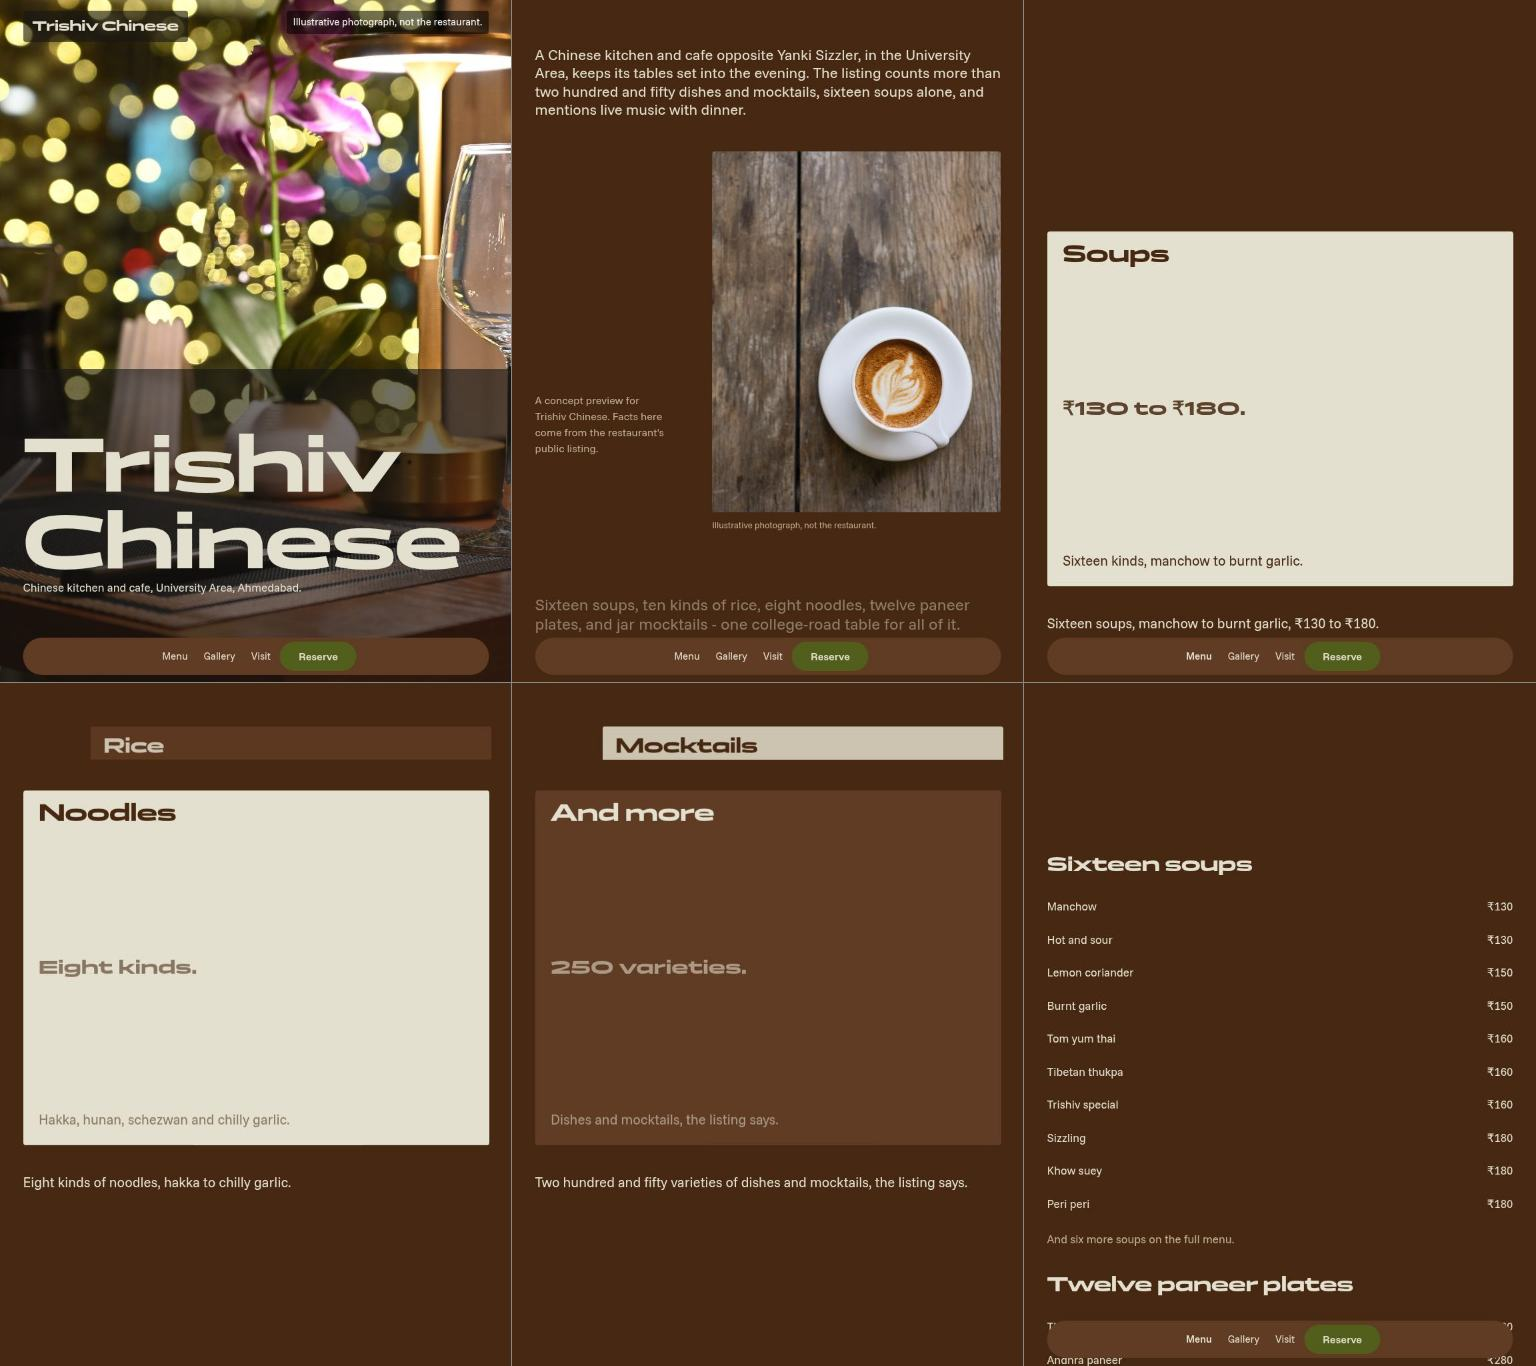
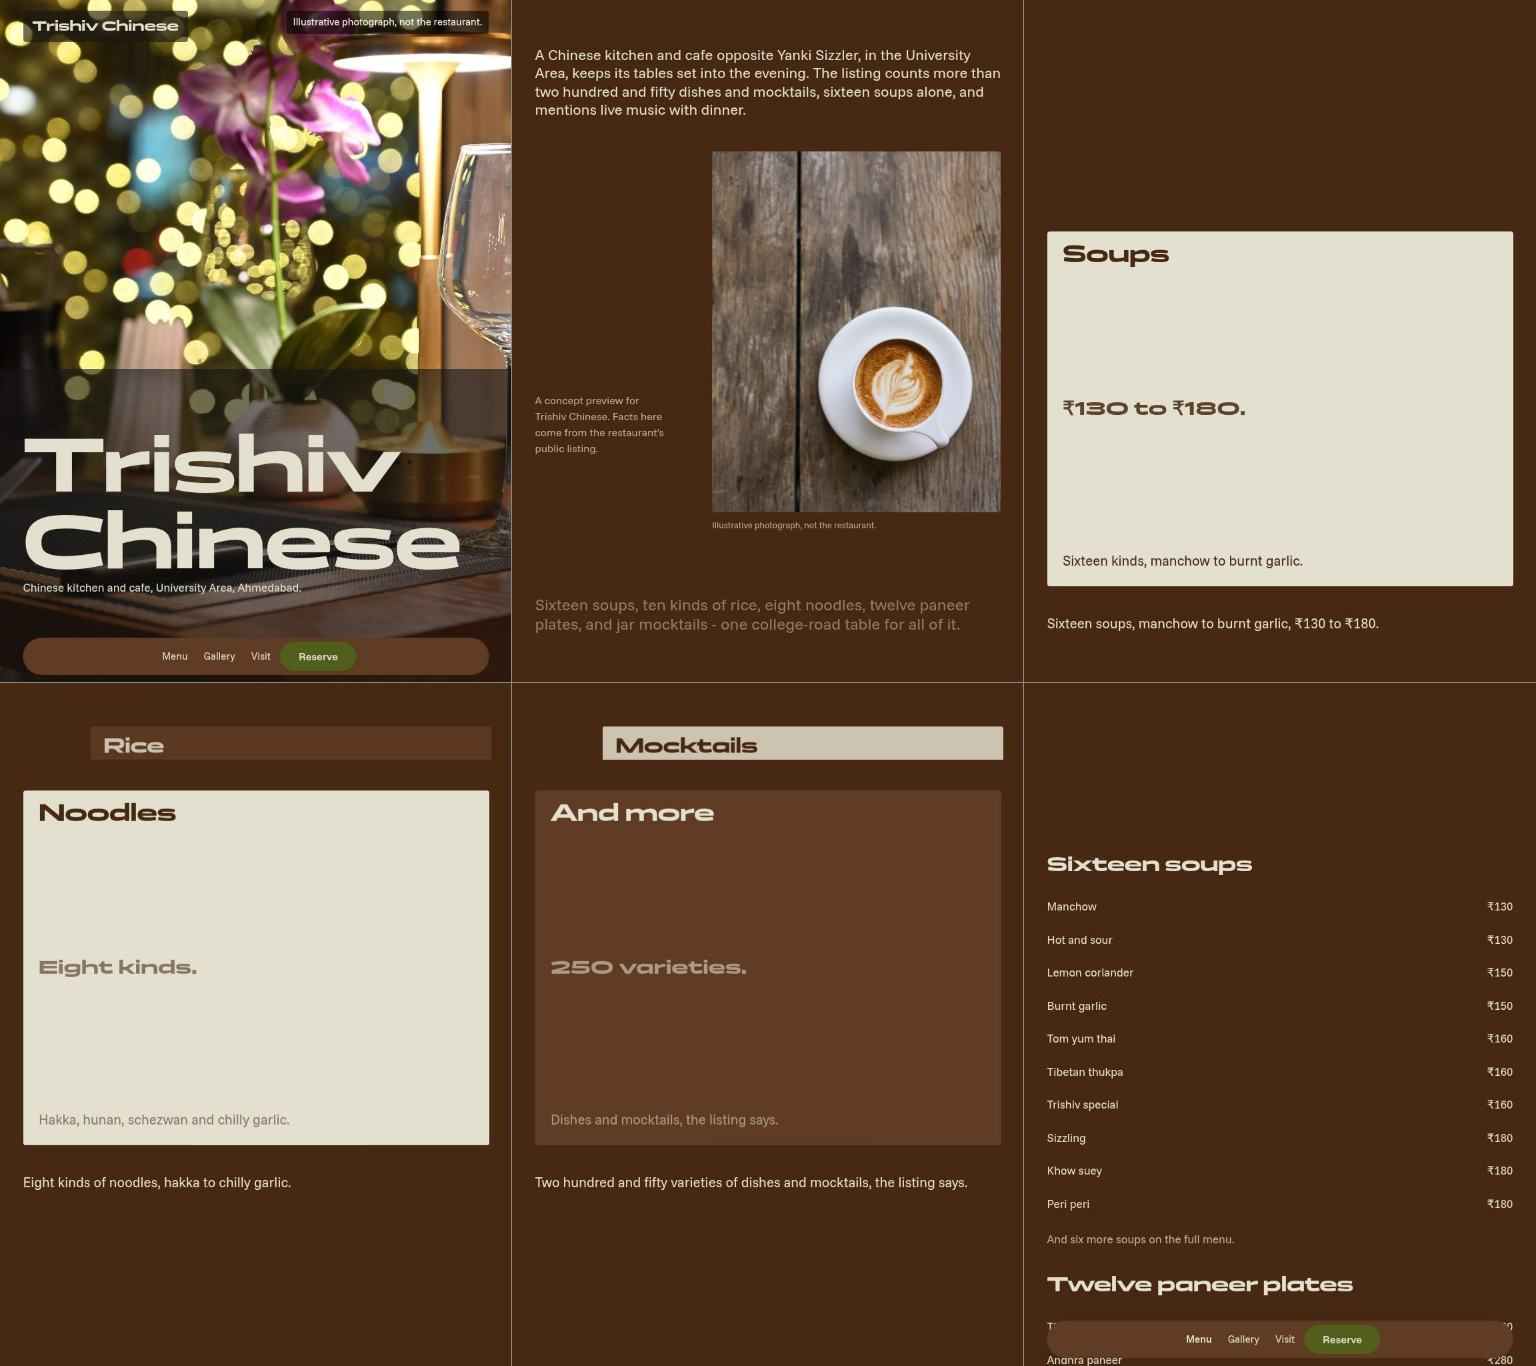
V69: 0 FAIL at 1440/768/390 - dock hides over statement+footer, phone chip offset, clf stack, frame crops, statement clearance

Changed region(s): [[0.6875, 0.4612, 1.0, 0.4919], [0.3438, 0.4612, 0.6562, 0.4919]]

diff --git a/trishiv-chinese-ahmedabad/app.js b/trishiv-chinese-ahmedabad/app.js
@@ -97,12 +97,15 @@ if (window.Stage) {
   if (Stage.ready) Stage.ready();
 }
 
-// --- hide the dock while the footer is on screen ---
+// --- hide the dock while the footer or the statement is on screen ---
 (() => {
   const dock = document.querySelector('.dock');
-  const footer = document.querySelector('footer');
-  if (!dock || !footer || !('IntersectionObserver' in window)) return;
-  new IntersectionObserver((es) => {
-    es.forEach(e => dock.classList.toggle('is-hidden', e.isIntersecting));
-  }, { rootMargin: '0px 0px -40px 0px' }).observe(footer);
+  const zones = [...document.querySelectorAll('footer, .statement')];
+  if (!dock || !zones.length || !('IntersectionObserver' in window)) return;
+  const visible = new Set();
+  const io = new IntersectionObserver((es) => {
+    es.forEach(e => e.isIntersecting ? visible.add(e.target) : visible.delete(e.target));
+    dock.classList.toggle('is-hidden', visible.size > 0);
+  }, { rootMargin: '0px 0px -40px 0px' });
+  zones.forEach(z => io.observe(z));
 })();

diff --git a/trishiv-chinese-ahmedabad/style.css b/trishiv-chinese-ahmedabad/style.css
@@ -218,11 +218,16 @@ footer { padding-top: calc(var(--section-gap) / 4); }
   .intro::after { content: ""; display: block; clear: both; }
   .deck__stage { padding: 72px var(--margin) 100px; }
   .statement { padding-top: 24px; padding-bottom: 260px; }
+  @media (max-width: 480px) {
+    .statement { padding-top: 8px; padding-bottom: 340px; }
+    .gallery__frame--full { aspect-ratio: 1 / 1; }
+    .hero__chip { top: 64px; }
+  }
   .scene.deck.is-live .deck__stack { height: 52svh; }
   .menulist__cols, .visit { grid-template-columns: 1fr; gap: 40px; }
   .gallery { display: block; }
   .gallery__frame { margin-bottom: 64px; }
-  .gallery__frame--a { width: 70%; margin-top: 0; }
+  .gallery__frame--a { width: 70%; margin-top: 0; aspect-ratio: 4 / 3; }
   .gallery__frame--b { width: 84%; margin: 0 0 64px auto; }
   .gallery__frame--full { width: 100%; aspect-ratio: 4 / 5; margin-bottom: 0; }
   .gallery { overflow: clip; }

diff --git a/trishiv-chinese-ahmedabad/closing-line-in-a-field-of-words.css b/trishiv-chinese-ahmedabad/closing-line-in-a-field-of-words.css
@@ -185,3 +185,11 @@ html.js .scene.is-live[data-scene="closing-line-in-a-field-of-words"] .clf-last 
 @media (prefers-reduced-motion: reduce) {
   html.js .scene.is-live[data-scene="closing-line-in-a-field-of-words"] .clf-last { opacity: 1; }
 }
+
+@media (max-width: 480px) {
+  .scene[data-scene="closing-line-in-a-field-of-words"] .clf-close {
+    grid-template-columns: 1fr;
+    grid-template-areas: "last" "action" "line";
+    row-gap: 18px;
+  }
+}
